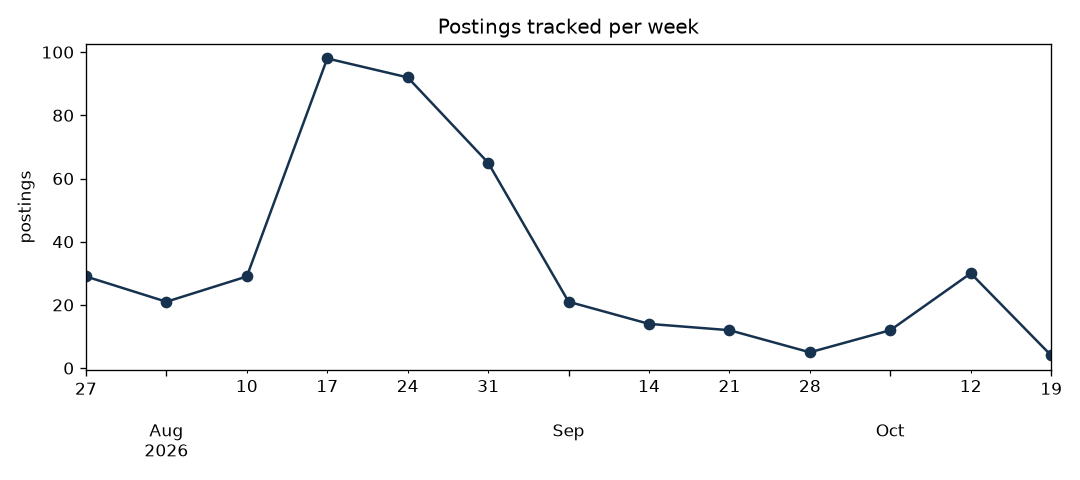
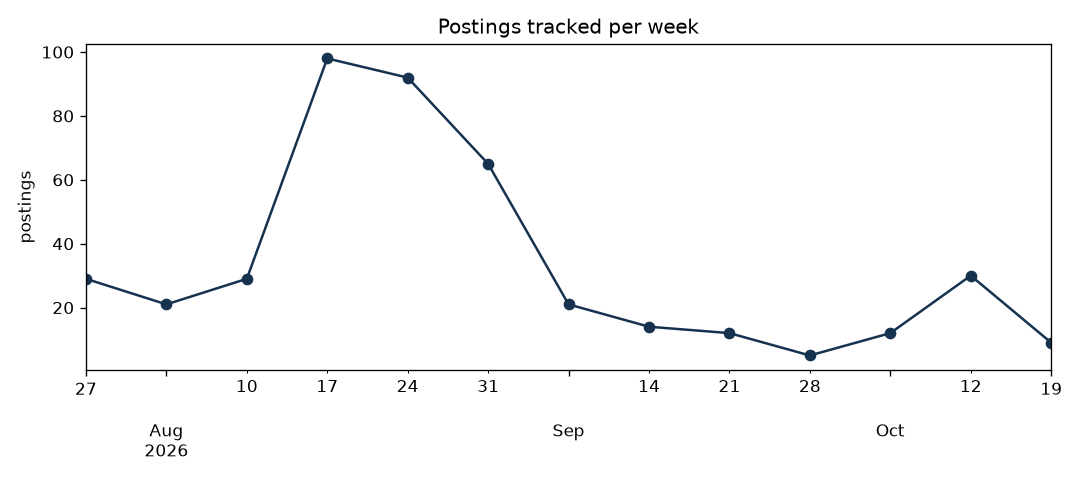
Daily data update

diff --git a/README.md b/README.md
@@ -13,13 +13,13 @@ reporting end to end.
 ## Dashboard
 
 <!-- dashboard:start -->
-*Last updated: 2026-10-22 17:51 UTC*
+*Last updated: 2026-10-23 17:42 UTC*
 
 | | |
 |---|---|
-| Postings tracked | 432 |
-| Companies | 361 |
-| New since last run | 2 |
+| Postings tracked | 437 |
+| Companies | 365 |
+| New since last run | 5 |
 | Data/ML-related share | 31% |
 
 ![Postings per week](reports/figures/postings_per_week.png)
